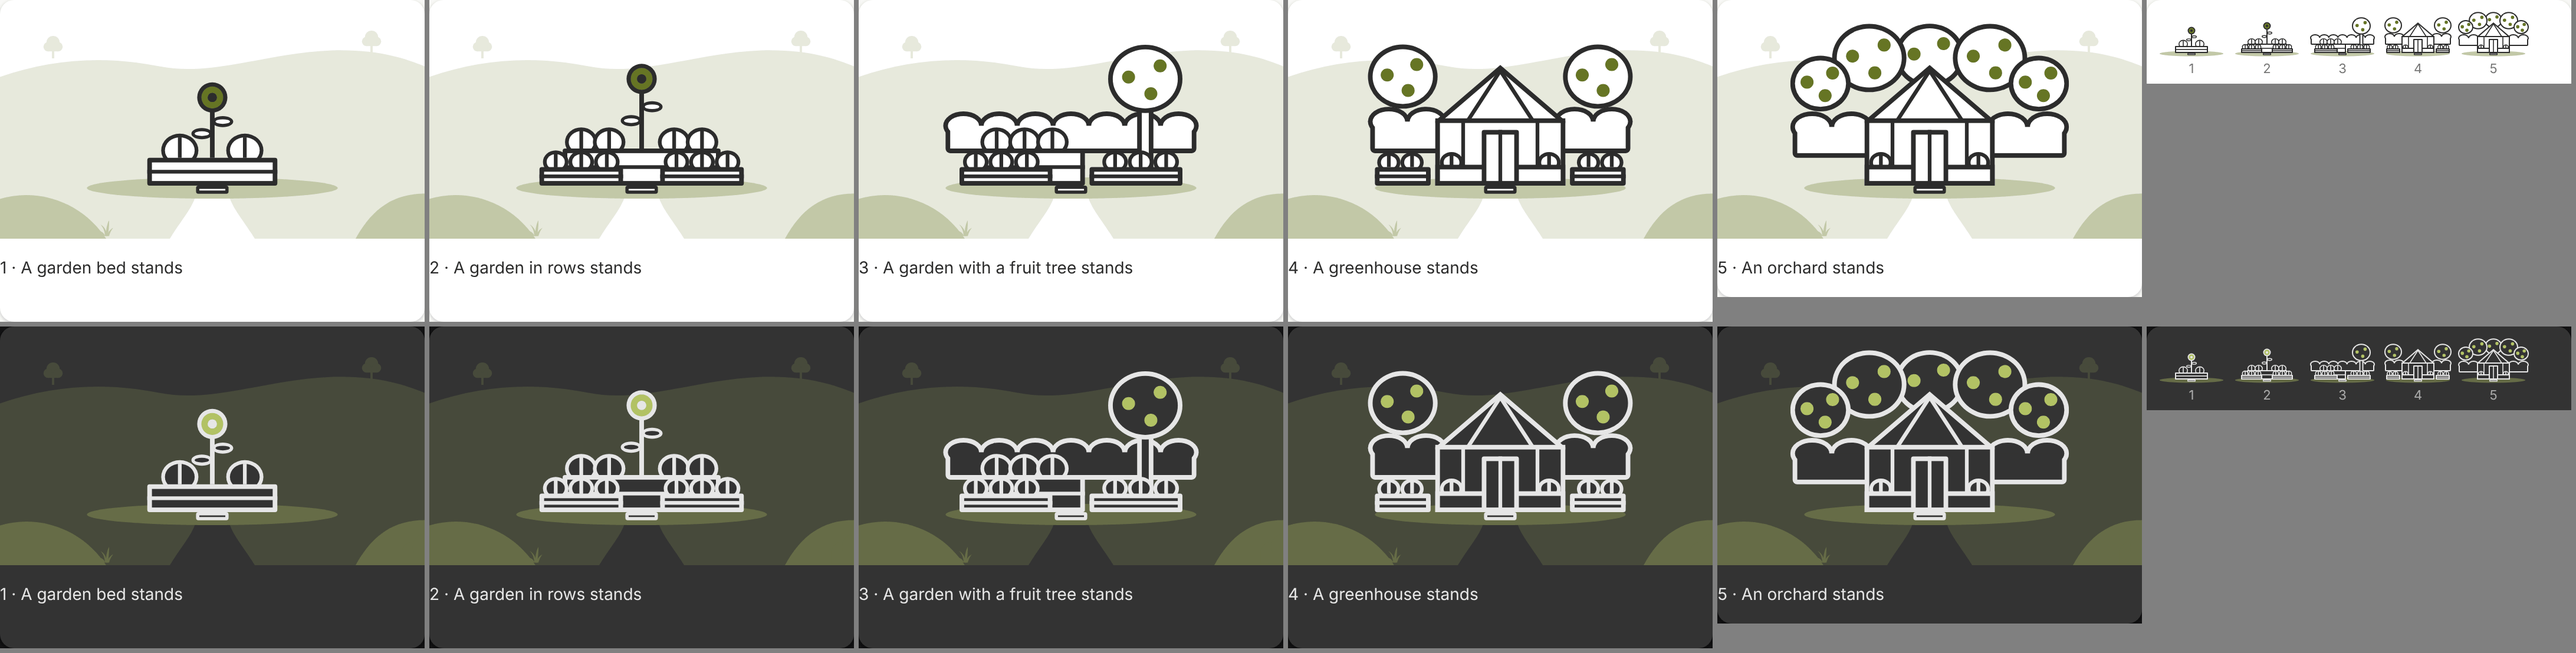
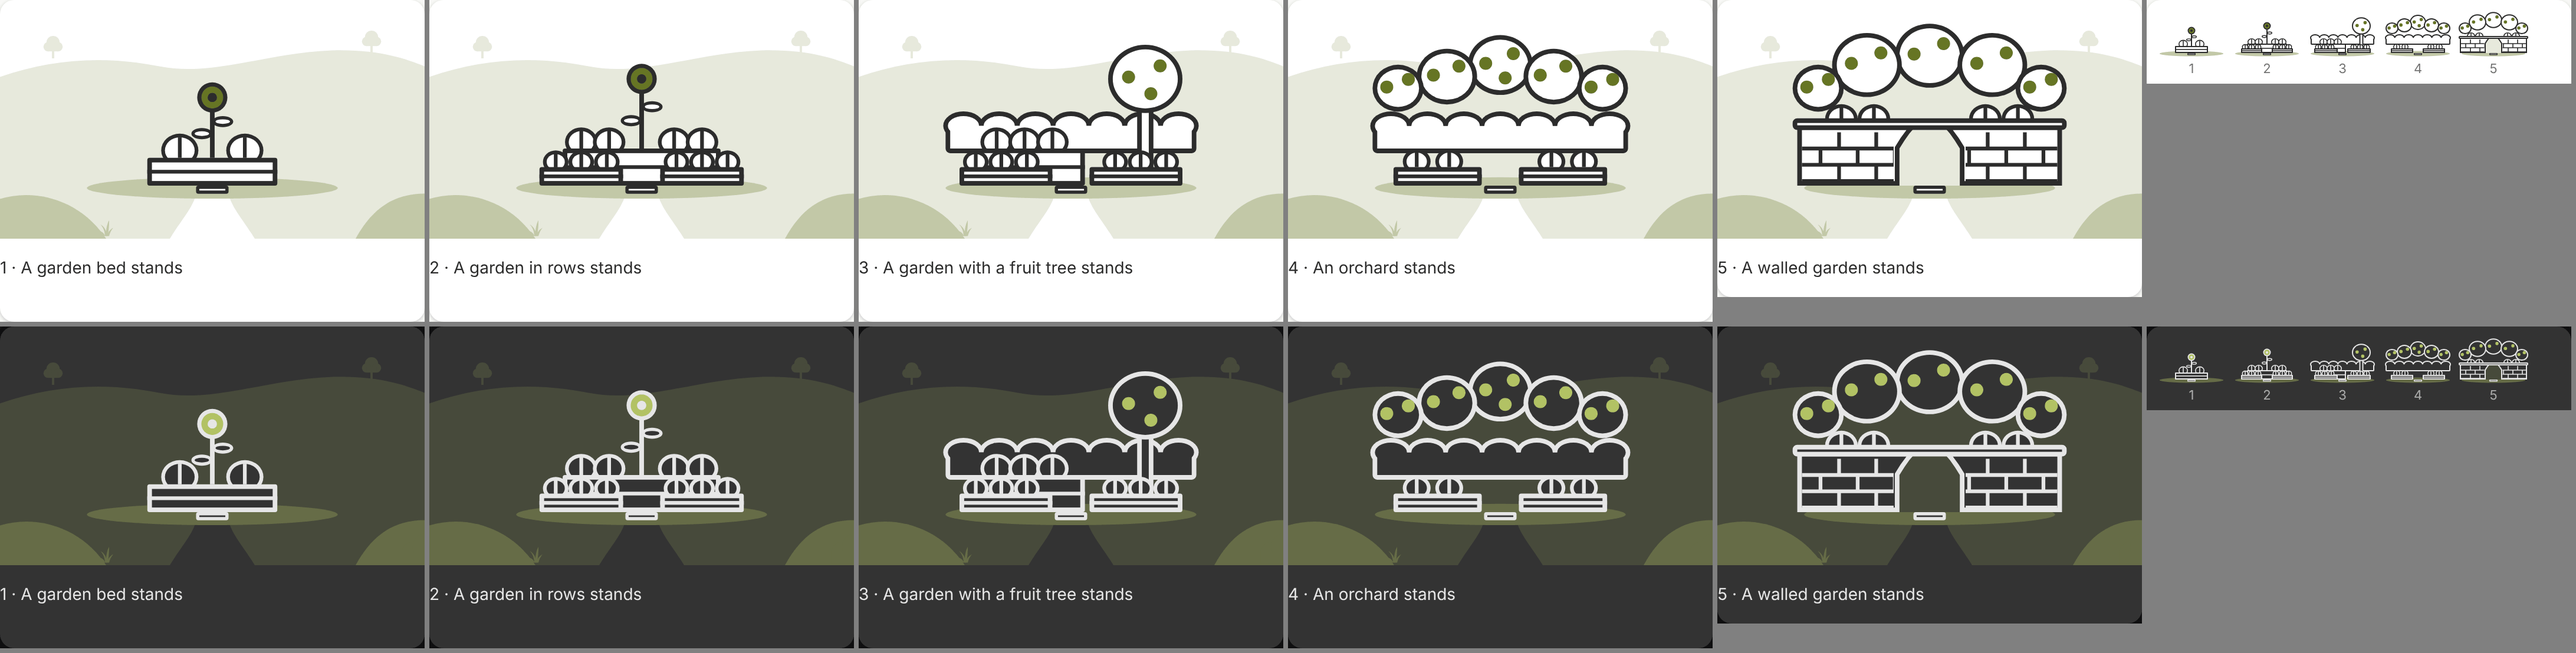
Art: Garden ends with an orchard and a walled garden (#135)
Owner's decision under the history rule: the greenhouse is a different
technique and is parked like the hand pump. Version 4 is an orchard of
five fruit trees behind the hedge, version 5 a walled garden: the
orchard and beds inside a wall of stones at shoulder height, its gate
on the threshold stone. Titles: An orchard / Ein Obstgarten, A walled
garden / Ein ummauerter Garten. `masonry` moves to the shared shapes.

The generator now also refuses a picture above the picture checker's
4 KB: a first orchard was written at 4,297 bytes unnoticed.

Closes #135.

Claude-Session: https://claude.ai/code/session_019PsDpCdRYaLb9552fVk121

diff --git a/docs/log.md b/docs/log.md
@@ -2,6 +2,7 @@
 
 ## 2026-11-15
 
+- **Update** (#135, decided by the owner): Garden follows the history rule. The greenhouse is a different technique, so it is parked like the hand pump (rule 8 in [journey design](journey-design.md#builds-and-ladders-the-valley-42), comment on #114); version 4 is an orchard of five fruit trees behind the hedge, version 5 a walled garden: the orchard and beds inside a wall of stones at shoulder height, the trees and plants rising over it, its gate on the threshold stone (titles An orchard / Ein Obstgarten, A walled garden / Ein ummauerter Garten). The measured rules of #136 caught two faults on the way: a plant in the gate covered the threshold stone, and a lower wall made version 5 cover less than 5 % more than the orchard. The generator now also refuses a picture above 4 KB: a first orchard was 4,297 bytes and was written unnoticed ([decision](decisions/ladder-geometry.md)). Checked at 360 × 720 and in the row at 60 × 40, light and dark: a plant inside the gate read as a keyhole and was dropped.
 - **Decision** (owner): ladder pictures are built with a geometry library and measured ([decision](decisions/ladder-geometry.md)). `clipper2-ts` 2.0.1 (BSL-1.0, development only, [dependencies](dependencies.md)) builds outlines by offsetting, the well house's cut-out by subtraction and the stonework clipped to its wall (`scripts/ladder-geometry.mjs`); `scripts/ladder-checks.mjs` measures every version before `scripts/draw-ladders.mjs` writes (inside the box, at least 5 % more area than the one before, the threshold stone free), and `packages/engine/test/art-geometry.test.ts` measures the committed pictures. A pixel comparison at four times the build size showed no visible change except the well house's stones, which now stop exactly at the arch, and the checks' first findings, now fixed: Garden 5's hedge reached past the box, Well 1's front stones below the base line. Crossing (retired by #128) is only warned about: its plank bridge covers 1 % more than the log ([journey design](journey-design.md#builds-and-ladders-the-valley-42)).
 - **Creation** (#128, Well): the ladder Well, drawn by `scripts/draw-ladders.mjs`: a water hole with its heap of earth and spade, a well sweep over a low stone curb, a round well with a winch, the well under a roof, a stone well house with the well under its arch; each whole and larger than the one before, on Home's threshold stone. Water in the builds is `tint-strong`; the accent is the bucket. Its land setting `setting-green` (a village green: a far ridge with roofs, no water) shares Home's path and marker posts; default marker lanterns, default hue water blue; titles in English and German. Checked at 360 × 720 and in the row at 60 × 40, light and dark: the well wall read as a crate and now has a round rim around its water. The fifth version was first a fountain; the owner rejected it (a fountain is another use than a well), so it is a well house: a closed house with a door read as a second Home house and a low arch as a garage, so its arch is tall and wide; the owner then saw the well standing in front of the house, so it is smaller, set back on the floor of a shaded arch, and the front wall is drawn over it with the arch cut out; then the owner found the stones no longer read as stones, so every stone wall (the well in versions 3 to 5, the well house's whole front wall, whose courses stop at the arch's curve) is drawn as courses of stones with staggered joints (`masonry`); last, the owner found the line broken (versions 1 and 2 were a spring and a trough under a pump, and a pump comes after a dug well): the ladder now follows how water is drawn from a dug well, from a water hole to a well sweep, a winch, a roof and a well house. **Decision** (owner): a ladder follows history step by step (rule 8 in [journey design](journey-design.md#builds-and-ladders-the-valley-42)); a new technique joining what stands (a hand pump at the well house) and several things at one place stay parked (comment on #114) ([journey design](journey-design.md#builds-and-ladders-the-valley-42), `docs/screenshots/ladder-well*.png`). Lookout follows after the owner's judgement.
 - **Creation** (#128, Garden): the ladder Garden, drawn by `scripts/draw-ladders.mjs`: a garden bed with a sunflower, a garden in rows, a garden with a hedge and a fruit tree, a greenhouse, an orchard around the greenhouse; each whole and larger than the one before, on the same threshold stone as Home. Its land setting `setting-field` (open fields, low hills, no water) shares Home's path to the threshold and marker posts (`sides`); default marker flowers, default hue moss; titles in English and German. The engine's list of ladders reads `garden.ladder.json` (no rule changed). Checked at 360 × 720 and in the row of versions at 60 × 40, light and dark, over three rounds: the bean poles were dropped as noise, the hedge became a row of round bushes instead of a box, plants rise further above their beds, the greenhouse stands on a low wall that hides its plants' feet, and the trees of the greenhouse and the orchard stand behind the hedge so their trunks do not read as posts ([journey design](journey-design.md#builds-and-ladders-the-valley-42), `docs/screenshots/ladder-garden*.png`). Well and Lookout follow after the owner's judgement.

diff --git a/docs/journey-design.md b/docs/journey-design.md
@@ -144,7 +144,7 @@ journey):
    on both banks, as thick as the surface. A build the way leads to (a
    home or a garden) has one: the threshold stone (x = 53–67,
    y = 74–77.5) in front of the fire, the tent's opening and each door,
-   of the garden's bed and the greenhouse door, or of the water hole and
+   of the garden's bed and the walled garden's gate, or of the water hole and
    each well, where the path ends.
    `ways` lists them; the checker requires a corner of every version and
    of the setting's path at each way point.
@@ -170,8 +170,9 @@ journey):
    is a fire in a ring of single stones, a tent, a hut under a round
    thatch, a cottage with a pitched roof and chimney, a house of two
    storeys. Garden is one raised bed with a sunflower, two rows of beds,
-   the rows before a hedge with a fruit tree, a greenhouse between hedges
-   and trees, an orchard of five fruit trees around the greenhouse. Well
+   the rows before a hedge with a fruit tree, an orchard of five fruit
+   trees behind the hedge, the orchard and beds inside a wall of stones
+   at shoulder height with its gate on the threshold (#135). Well
    follows how water is drawn: a water hole dug down to the water (its
    earth heaped behind with the spade in it), a well sweep (a beam on a
    forked post with a stone and the bucket on a pole) over a low stone
@@ -184,8 +185,9 @@ journey):
    reads as a story without words and no version is a step back. A
    ladder has five versions; a journey with more stages uses the rule of
    game rules §7 (the last version gains fixed additions). Parked: a
-   version that is a new technique joining what stands (a hand pump at
-   the well house), and several things at one place
+   version that is a different technique joining what stands (a hand
+   pump at the well house, a greenhouse in the garden), and several
+   things at one place
    ([#114](https://github.com/nexumia-de/quest-arc/issues/114),
    decision 13).
 9. **Look.** Outlined in `fg` with a `bg` fill, one `accent` detail (the

diff --git a/docs/decisions/ladder-geometry.md b/docs/decisions/ladder-geometry.md
@@ -43,7 +43,9 @@ of the threshold stone was only ever checked by eye.
   - it covers at least 5 % more area than the version before (a tall,
     thin version such as a well sweep grows less in area than it looks,
     so the bar is low; it catches a version that is not larger);
-  - no shape but the threshold stone covers the threshold stone.
+  - no shape but the threshold stone covers the threshold stone;
+  - no picture is larger than the picture checker's 4 KB (added with
+    #135, after a redraw went over it unnoticed).
 - `packages/engine/test/art-geometry.test.ts` measures the committed
   pictures the same way, so `npm run journeys` and CI catch a picture
   changed by other means.
@@ -74,7 +76,7 @@ of the threshold stone was only ever checked by eye.
     base line.
 - Curves become points inside the geometry library, so a shape built
   there is written as a polygon or a path of straight lines; the 4 KB
-  limit still applies (largest build 4,042 bytes, Garden 4).
+  limit still applies, and the generator refuses a picture above it (largest build 3,915 bytes, Garden 3, after #135).
 - Not measured: the thinnest line at 60 × 40 (joints and ropes are
   meant to be thin) and whether a version reads as what it is; that stays
   the owner's review.
